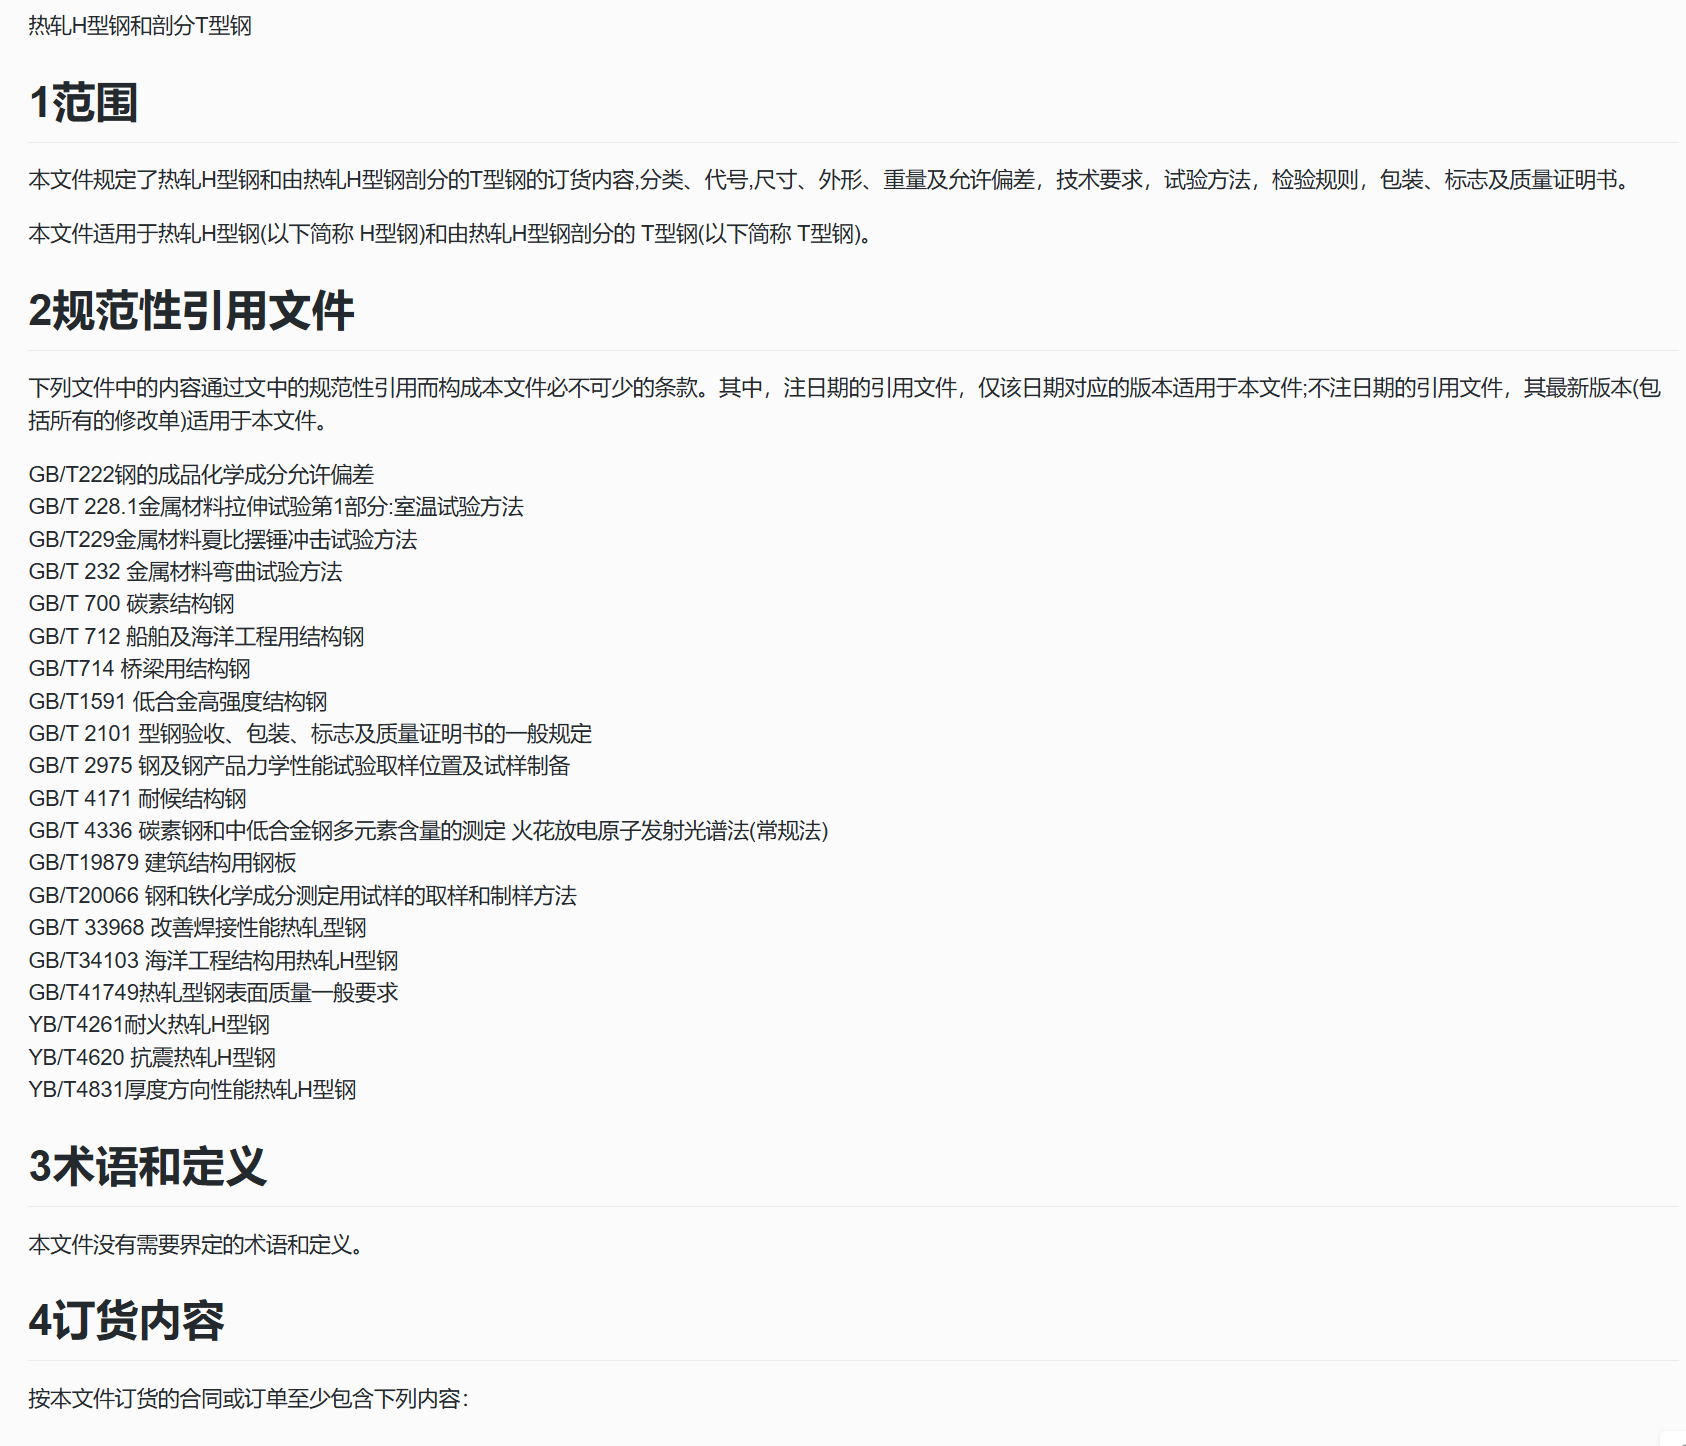
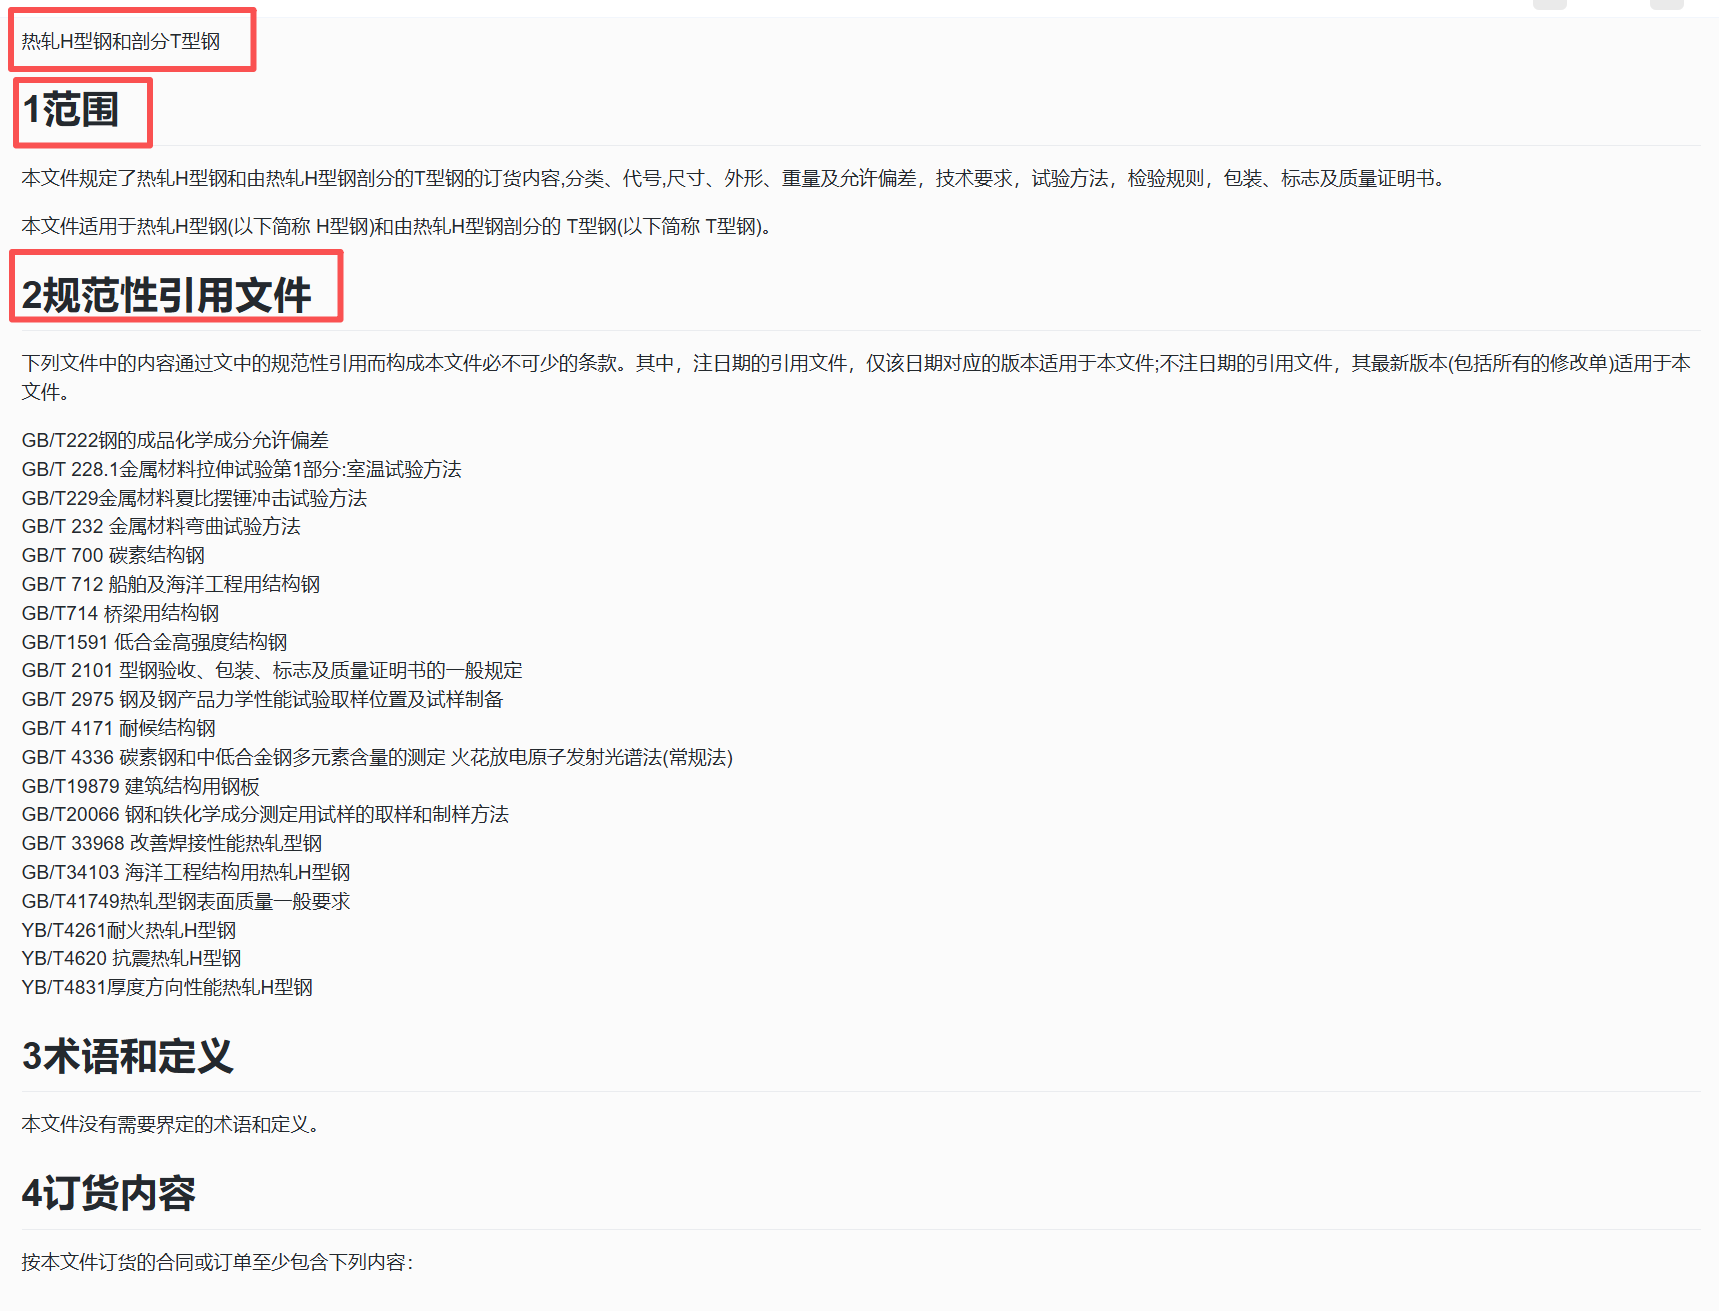
v1.2 接入paddleocrvl模型，更新readme

Changed region(s): [[0.0, 0.0, 0.987, 0.7628], [0.0, 0.8543, 0.2776, 0.9764], [0.0, 0.7933, 0.1542, 0.8238]]

diff --git a/models/paddleocrvl/flask_server.py b/models/paddleocrvl/flask_server.py
@@ -18,7 +18,6 @@ logger = setup_logger(__name__, './flask_server.log')
 # 配置参数
 UPLOAD_FOLDER = "./uploads"  # 上传文件临时存储目录
 OUTPUT_FOLDER = "./output"   # 处理结果输出目录
-ALLOWED_EXTENSIONS = {"pdf"}  # 仅支持 PDF 文件
 
 # 创建必要目录
 Path(UPLOAD_FOLDER).mkdir(parents=True, exist_ok=True)
@@ -26,10 +25,6 @@ Path(OUTPUT_FOLDER).mkdir(parents=True, exist_ok=True)
 
 # 初始化 PaddleOCRVL 实例（全局单例，避免重复初始化）
 pipeline = PaddleOCRVL(vl_rec_backend="vllm-server", vl_rec_server_url=config.model_address) # "http://127.0.0.1:8118/v1"
-
-def allowed_file(filename):
-    """检查文件是否为允许的类型"""
-    return "." in filename and filename.rsplit(".", 1)[1].lower() in ALLOWED_EXTENSIONS
 
 @app.route("/file_parse", methods=["POST"])
 def pdf_to_markdown():
@@ -52,13 +47,6 @@ def pdf_to_markdown():
                 "data": None
             }), 400
 
-        # 3. 检查文件类型
-        if not allowed_file(file.filename):
-            return jsonify({
-                "code": 400,
-                "message": f"不支持的文件类型，仅支持 {ALLOWED_EXTENSIONS}",
-                "data": None
-            }), 400
 
         # 4. 生成唯一文件名，避免冲突
         file_ext = file.filename.rsplit(".", 1)[1].lower()

diff --git a/models/paddleocrvl/client.py b/models/paddleocrvl/client.py
@@ -23,6 +23,7 @@ def extract_images_from_md(md_content, image_dir):
         # 构造本地图片完整路径
         image_path = os.path.abspath(os.path.join(image_dir, img_filename))
 
+        logger.info(f"extracting images done for file: {image_path}")
         # 图片不存在：跳过替换
         if not os.path.exists(image_path):
             logger.warn(f"warning：image does not exist. {img_filename} 在目录 {image_dir} 中不存在，跳过替换")
@@ -85,5 +86,6 @@ class PaddleOCRVLClient:
         if extract_image and md_content:
             logger.info(f"extracting images for file: {file_path}")
             md_content = extract_images_from_md(md_content,"./data/images")
+        logger.info(f"extracting images done for file: {file_path}")
         md_content = extract_text_with_tables(md_content)
         return md_content

diff --git a/README.md b/README.md
@@ -60,14 +60,28 @@
 
 ## 文档解析效果展示
 文本内容解析：
-|            原图             |       模型A 解析结果        | 模型B 解析结果 |
+|            原图             |       paddleocrvl 解析结果        | mineru 解析结果 |
 |:-------------------------:|:---------------------:| :---: |
 | ![原图](docs/images/docs_text.png) | ![Paddle模型解析效果](docs/images/docs_text_model_p.png) | ![mineru模型解析效果](docs/images/docs_text_model_m.png) |
 
+paddle模型更精确提取了文本的标题层级结构。
+
 表格内容解析：
-图片内容解析：
-阅读顺序解析：
-公式内容解析
+|            原图             |       paddleocrvl 解析结果        | mineru 解析结果 |
+|:-------------------------:|:---------------------:| :---: |
+| ![原图](docs/images/docs_table.png) | ![Paddle模型解析效果](docs/images/docs_table_model_p.png) | ![mineru模型解析效果](docs/images/docs_table_model_m.png) |
+
+paddle模型更精确的还原表格结构和文本。
+
+图片、公式内容解析：
+|            原图             |       paddleocrvl 解析结果        | mineru 解析结果 |
+|:-------------------------:|:---------------------:| :---: |
+| ![原图](docs/images/docs_formula.png) | ![Paddle模型解析效果](docs/images/docs_formula_model_p.png) | ![mineru模型解析效果](docs/images/docs_formula_model_m.png) |
+
+对公式的提取均表现良好，paddle模型能够更精确的可视化还原部分公式内容。
+同时两个均支持提取图片，将支持图片中的文本内容识别，敬请期待！
+
+
 
 ## 本地部署
 
